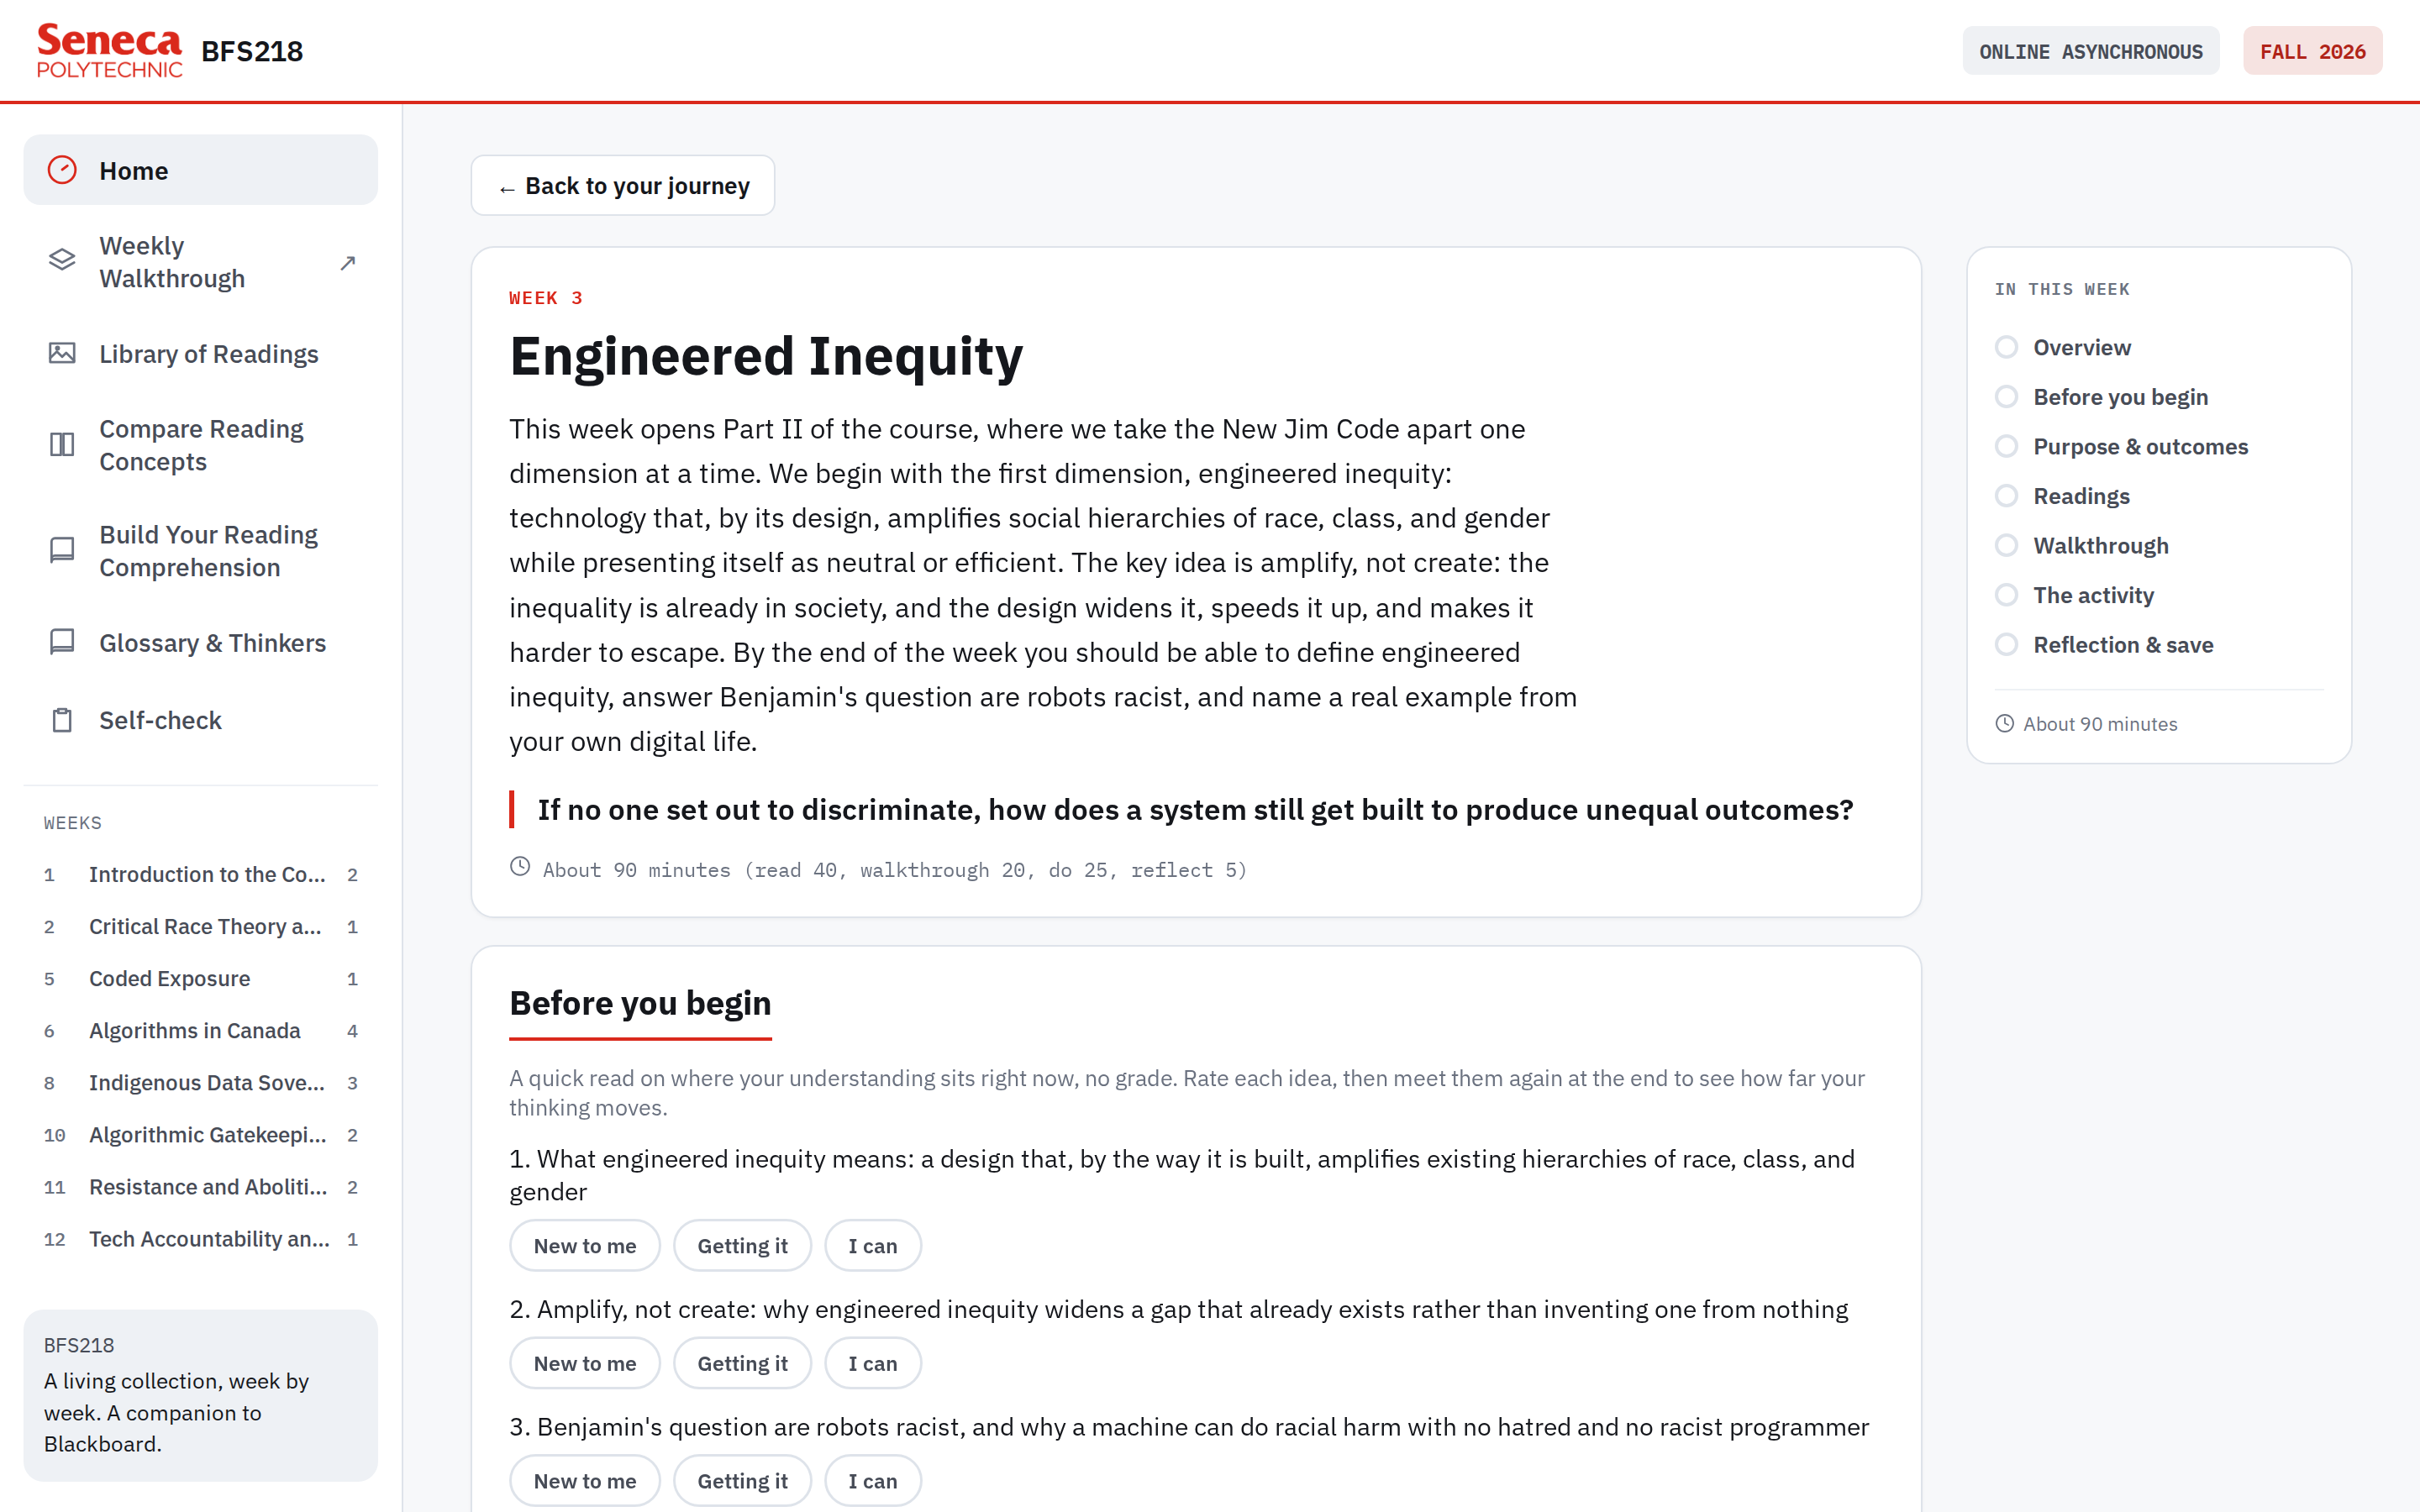
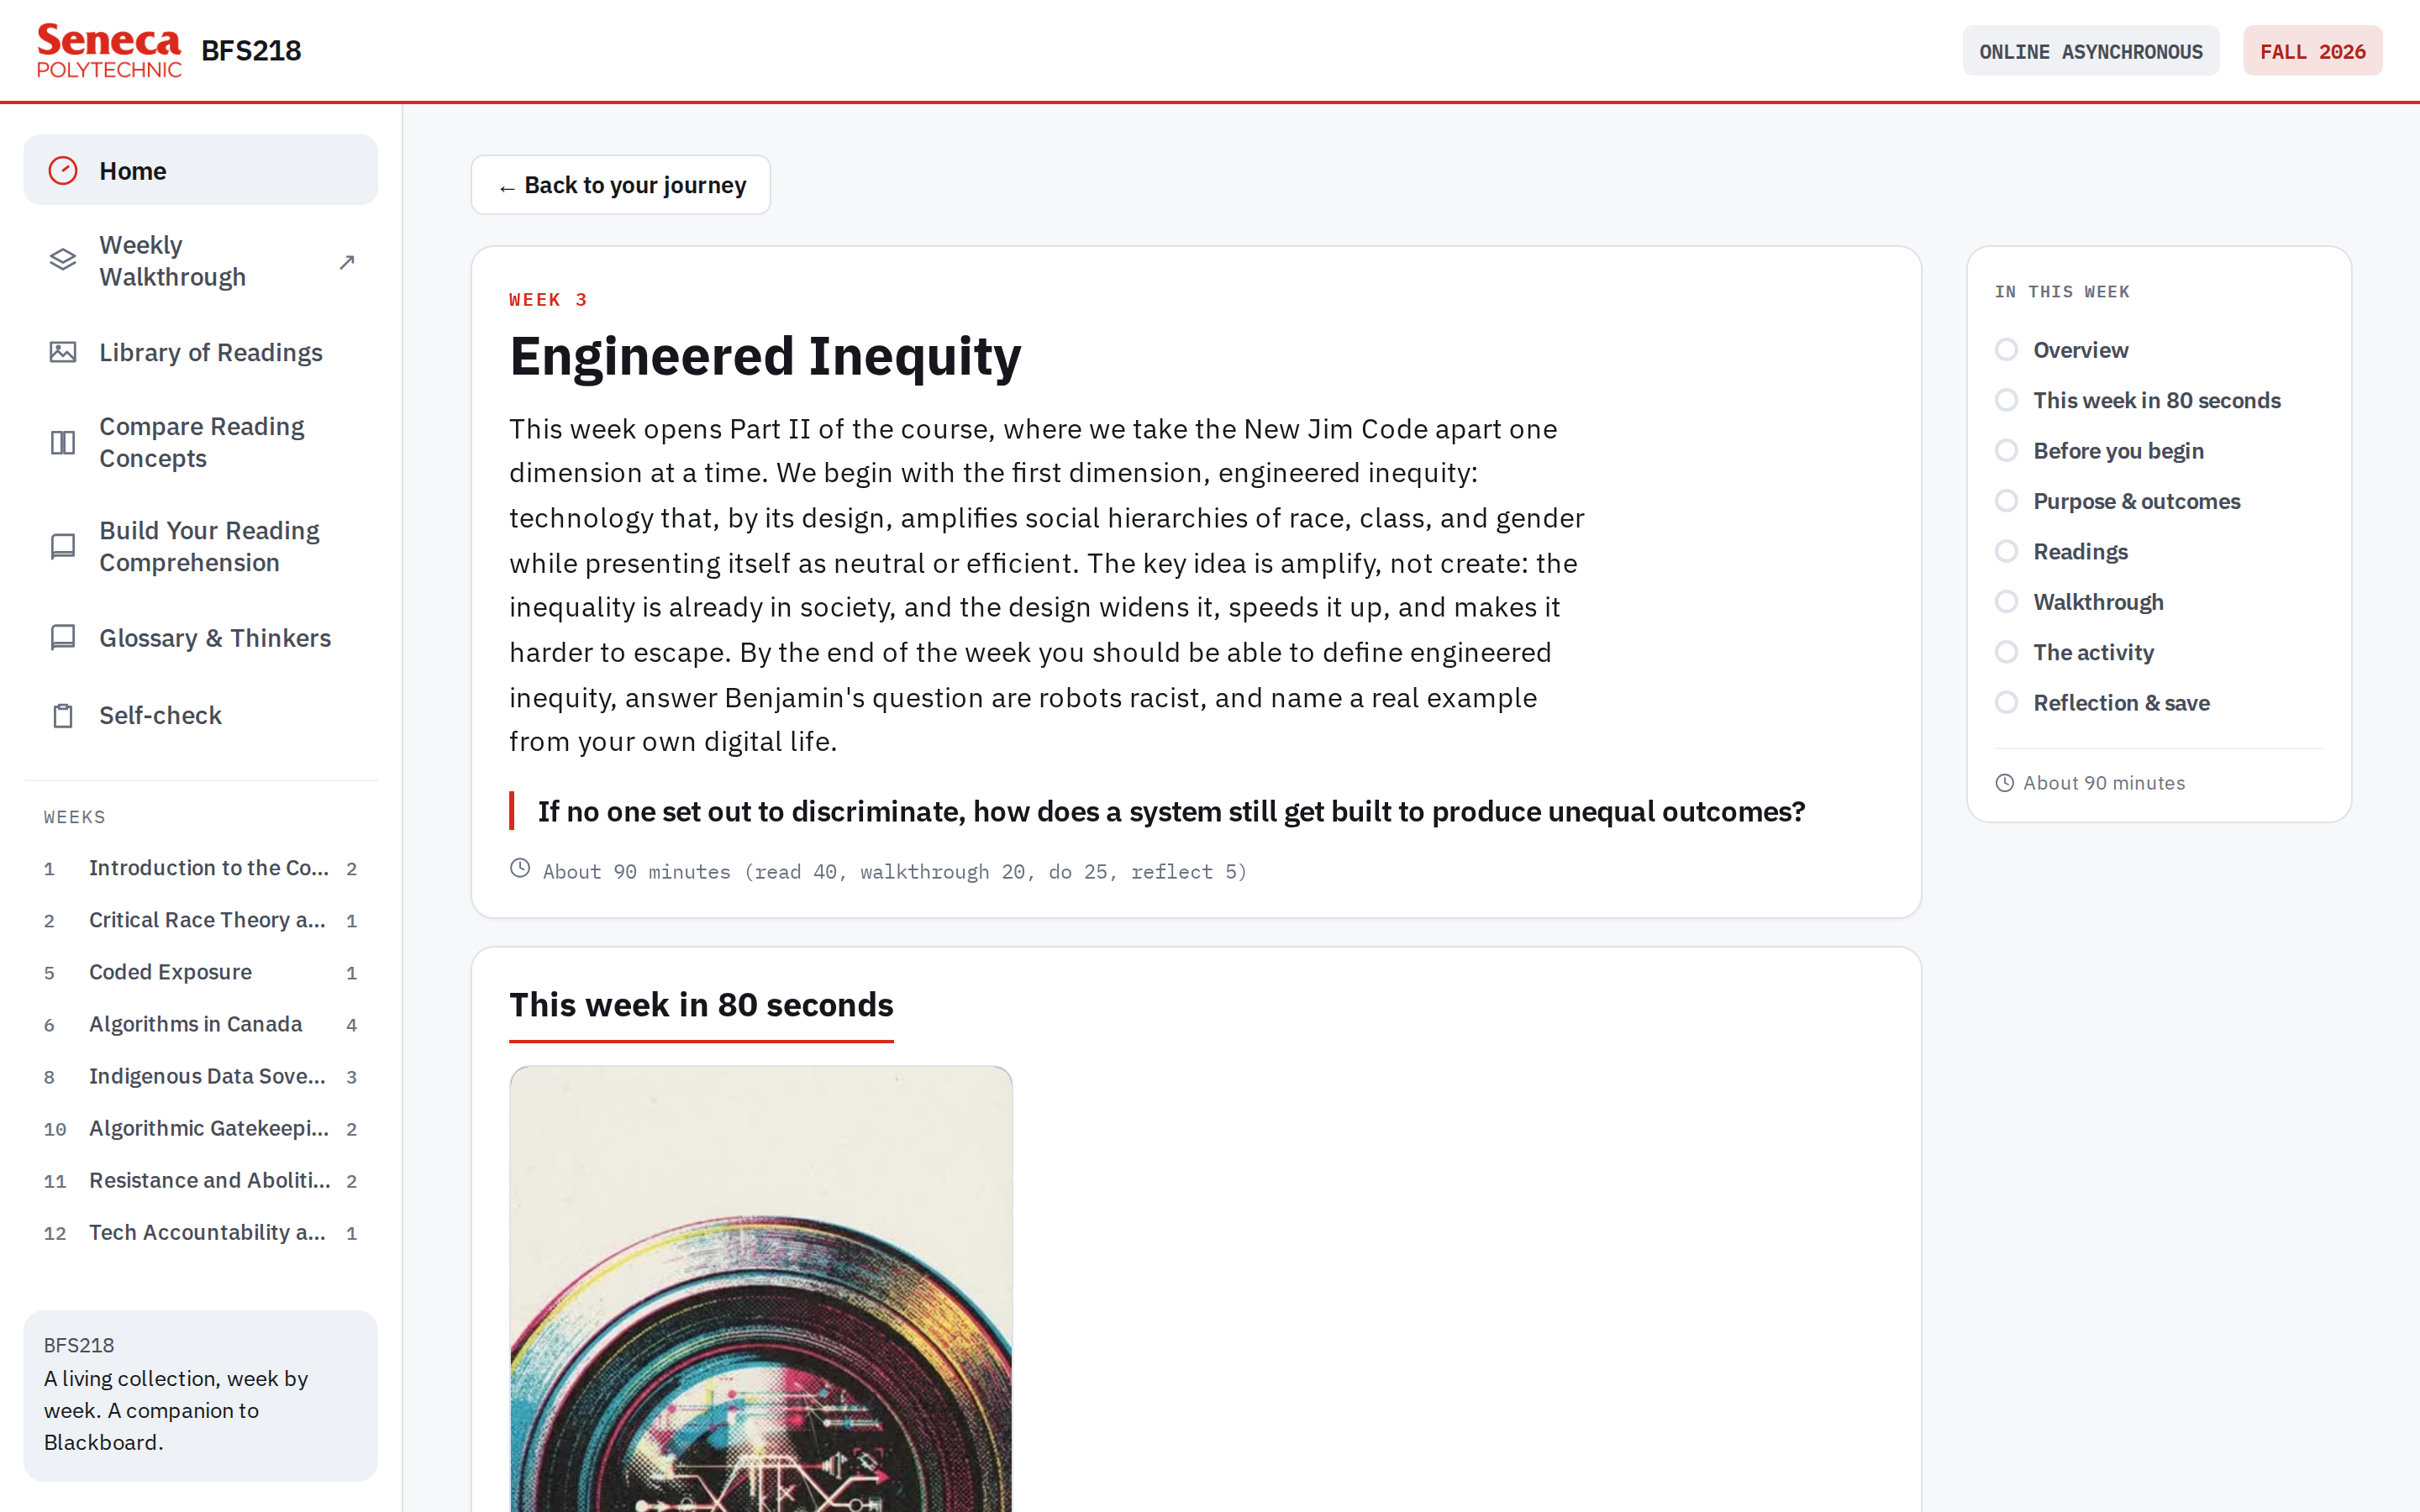
Guide cascade: rebuild after companion-site update

diff --git a/guide/index.html b/guide/index.html
@@ -157,6 +157,7 @@
   <div style="font-family:'Space Mono',monospace;font-size:11px;font-weight:700;letter-spacing:.2em;text-transform:uppercase;color:#D42315;margin:0 0 8px">The week page, block by block</div>
   <h2 id="anatomy-of-a-week" style="font-family:'Bricolage Grotesque',sans-serif;font-size:27px;line-height:1.08;font-weight:800;letter-spacing:-.01em;color:#1C1714;margin:0 0 6px">Anatomy of a week</h2>
   <p style="font-family:'Newsreader',serif;font-size:15.5px;line-height:1.72;color:#2A2320;margin:0 0 18px">Every week page runs in the order the week is meant to run. Work it top to bottom.</p>
+<div style="border:1.5px solid #E7DED2;border-radius:12px;background:#FBF8F3;padding:14px 18px;margin:0 0 18px"><p style="font-family:'Newsreader',serif;font-size:14px;line-height:1.65;color:#2A2320;margin:0"><strong style="font-family:'Bricolage Grotesque',sans-serif;font-size:13.5px">This week in 80 seconds.</strong> Content weeks open with a short animated overview under the week title, made with NotebookLM from that week's readings and reviewed by your instructor. Captions included. It is a fast on-ramp into the week, not a substitute for the readings.</p></div>
 
   <div style="border:1.5px solid #E7DED2;border-radius:16px;background:#FBF8F3;padding:20px 20px 22px">
     <div style="display:flex;flex-direction:column;gap:0">

diff --git a/guide/print.html b/guide/print.html
@@ -182,6 +182,7 @@
   <div style="font-family:'Space Mono',monospace;font-size:11px;font-weight:700;letter-spacing:.2em;text-transform:uppercase;color:#D42315;margin:0 0 8px">The week page, block by block</div>
   <h2 id="anatomy-of-a-week" style="font-family:'Bricolage Grotesque',sans-serif;font-size:27px;line-height:1.08;font-weight:800;letter-spacing:-.01em;color:#1C1714;margin:0 0 6px">Anatomy of a week</h2>
   <p style="font-family:'Newsreader',serif;font-size:15.5px;line-height:1.72;color:#2A2320;margin:0 0 18px">Every week page runs in the order the week is meant to run. Work it top to bottom.</p>
+<div style="border:1.5px solid #E7DED2;border-radius:12px;background:#FBF8F3;padding:14px 18px;margin:0 0 18px"><p style="font-family:'Newsreader',serif;font-size:14px;line-height:1.65;color:#2A2320;margin:0"><strong style="font-family:'Bricolage Grotesque',sans-serif;font-size:13.5px">This week in 80 seconds.</strong> Content weeks open with a short animated overview under the week title, made with NotebookLM from that week's readings and reviewed by your instructor. Captions included. It is a fast on-ramp into the week, not a substitute for the readings.</p></div>
 
   <div style="border:1.5px solid #E7DED2;border-radius:16px;background:#FBF8F3;padding:20px 20px 22px">
     <div style="display:flex;flex-direction:column;gap:0">